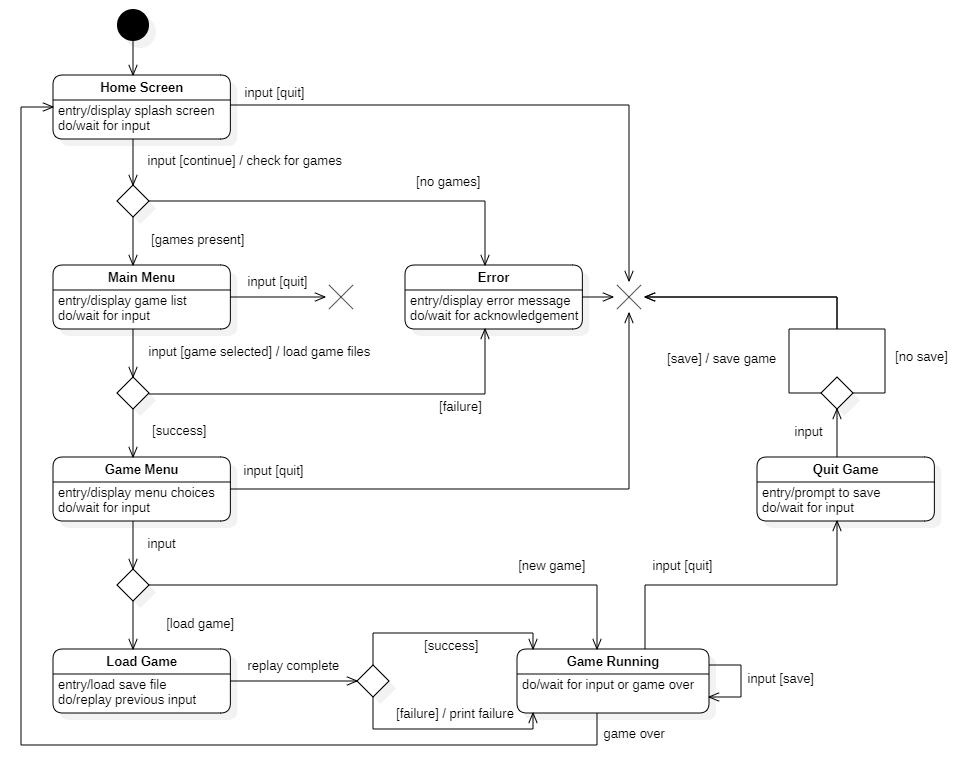
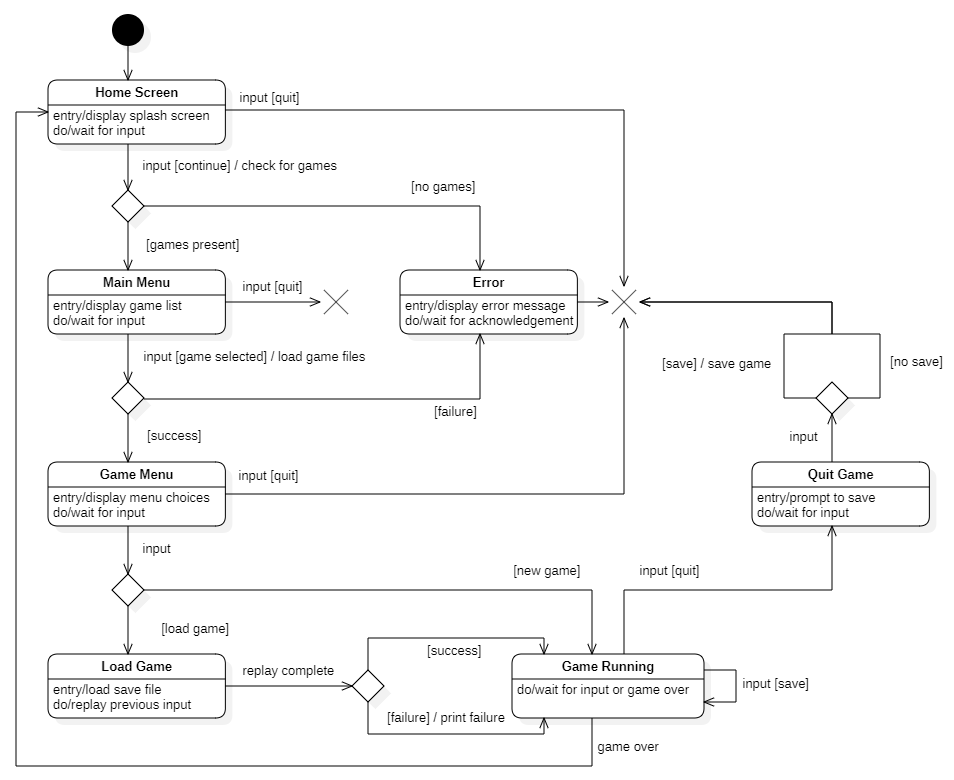
Add engine state to assignment3.md

Changed region(s): [[0.0, 0.0, 1.0, 1.0]]

diff --git a/docs/assignment3.md b/docs/assignment3.md
@@ -493,7 +493,9 @@ This chapter is composed of a UML object diagram of your system, together with a
 Maximum number of words for this section: 1000
 
 ## State machine diagrams									
-Author(s): `name of the team member(s) responsible for this section`
+Author(s): `Anthony Wilkes`
+
+![Engine State Machine Diagram](assets/A03/A03-engine_state.png "Engine state machine diagram")
 
 This chapter contains the specification of at least 2 UML state machines of your system, together with a textual description of all their elements. Also, remember that classes the describe only data structures (e.g., Coordinate, Position) do not need to have an associated state machine since they can be seen as simple "data containers" without behaviour (they have only stateless objects).
 
